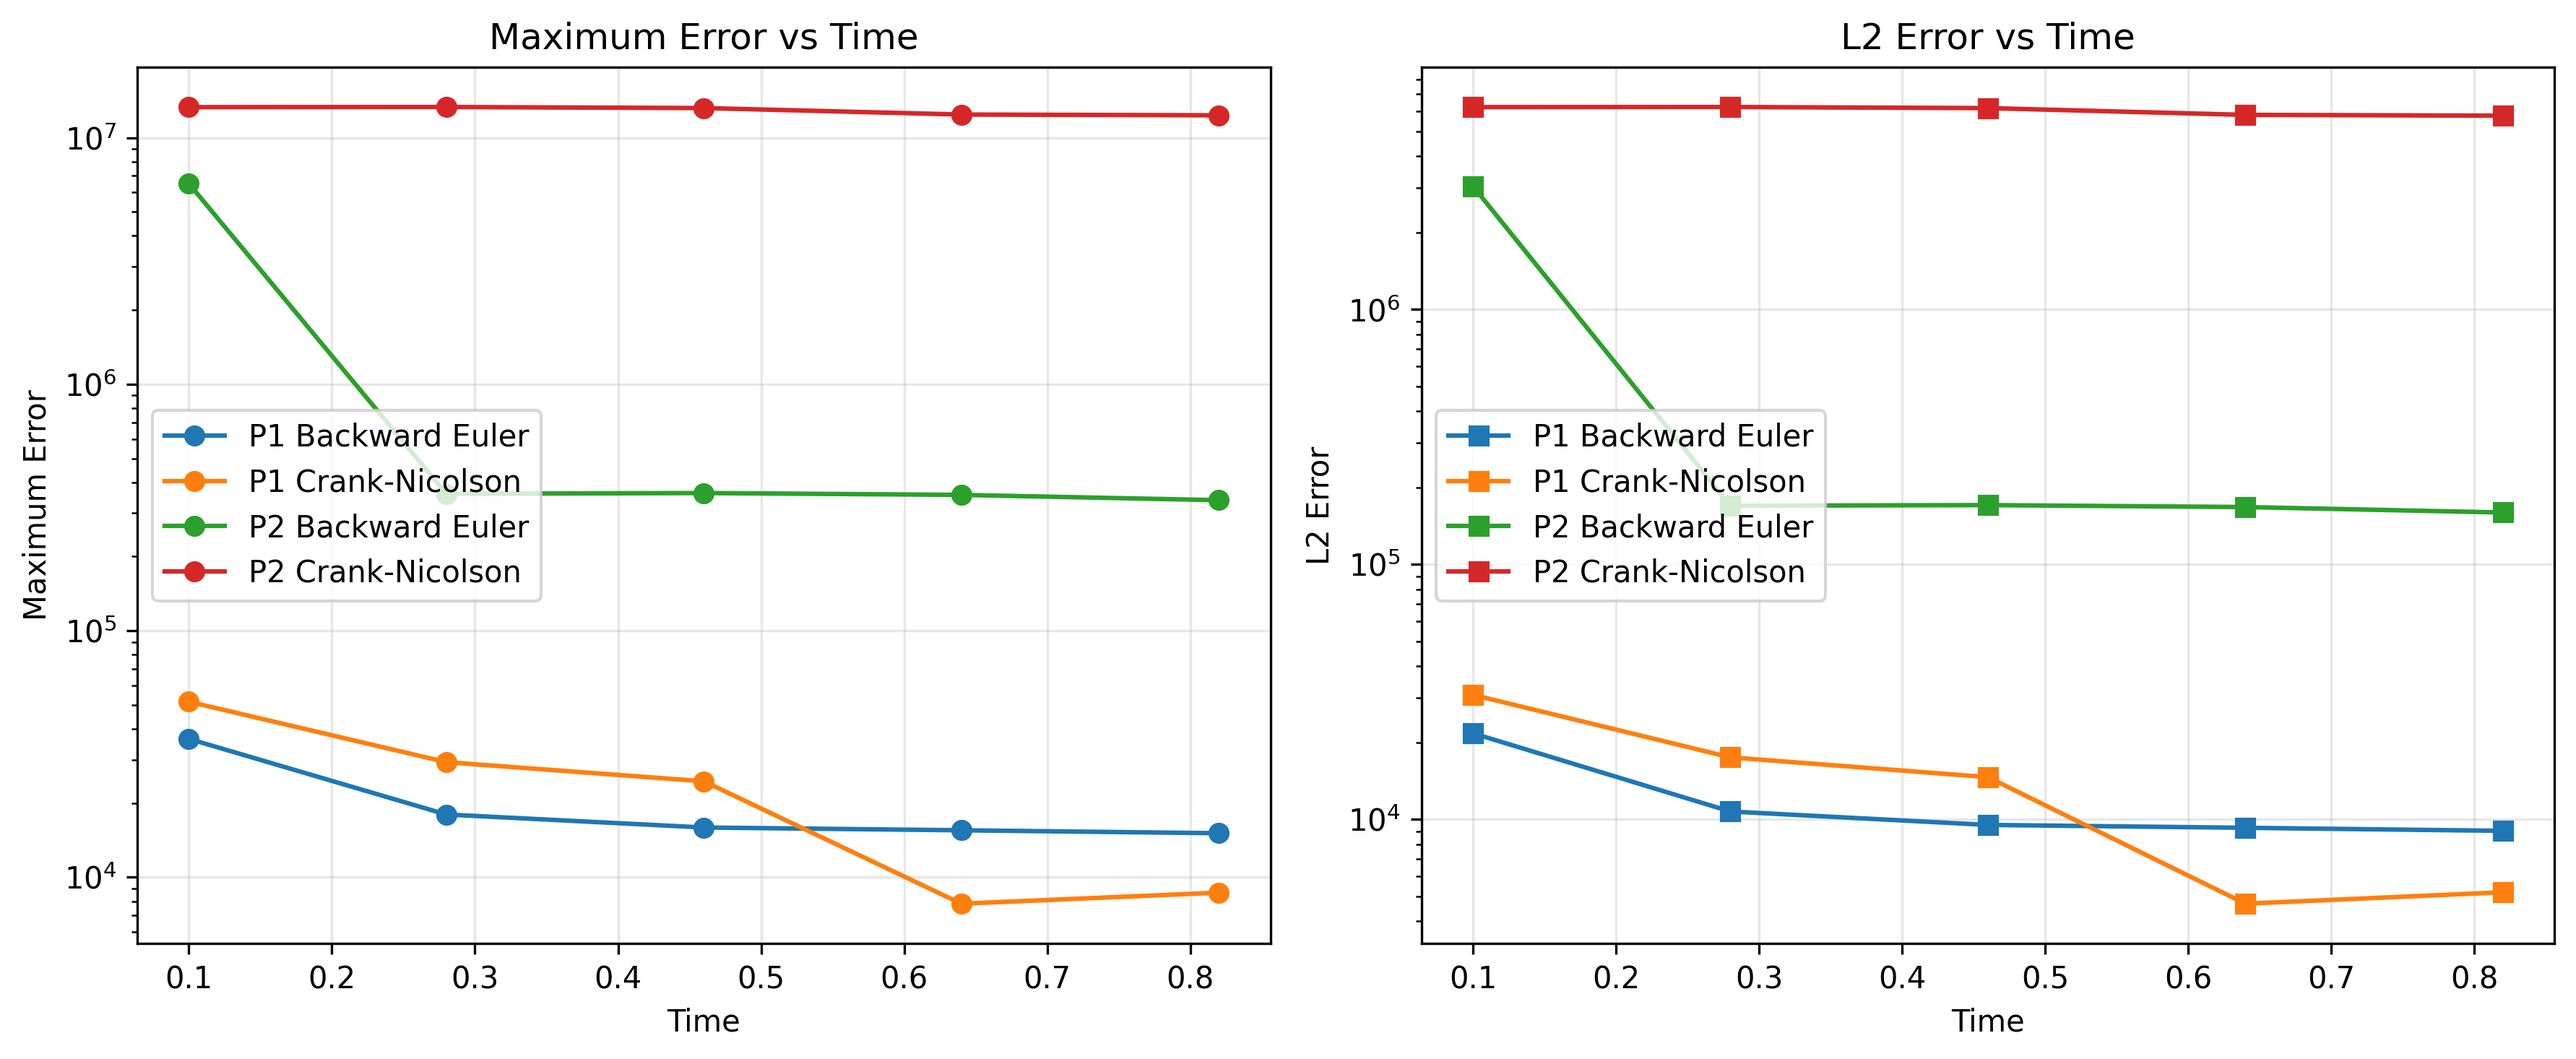
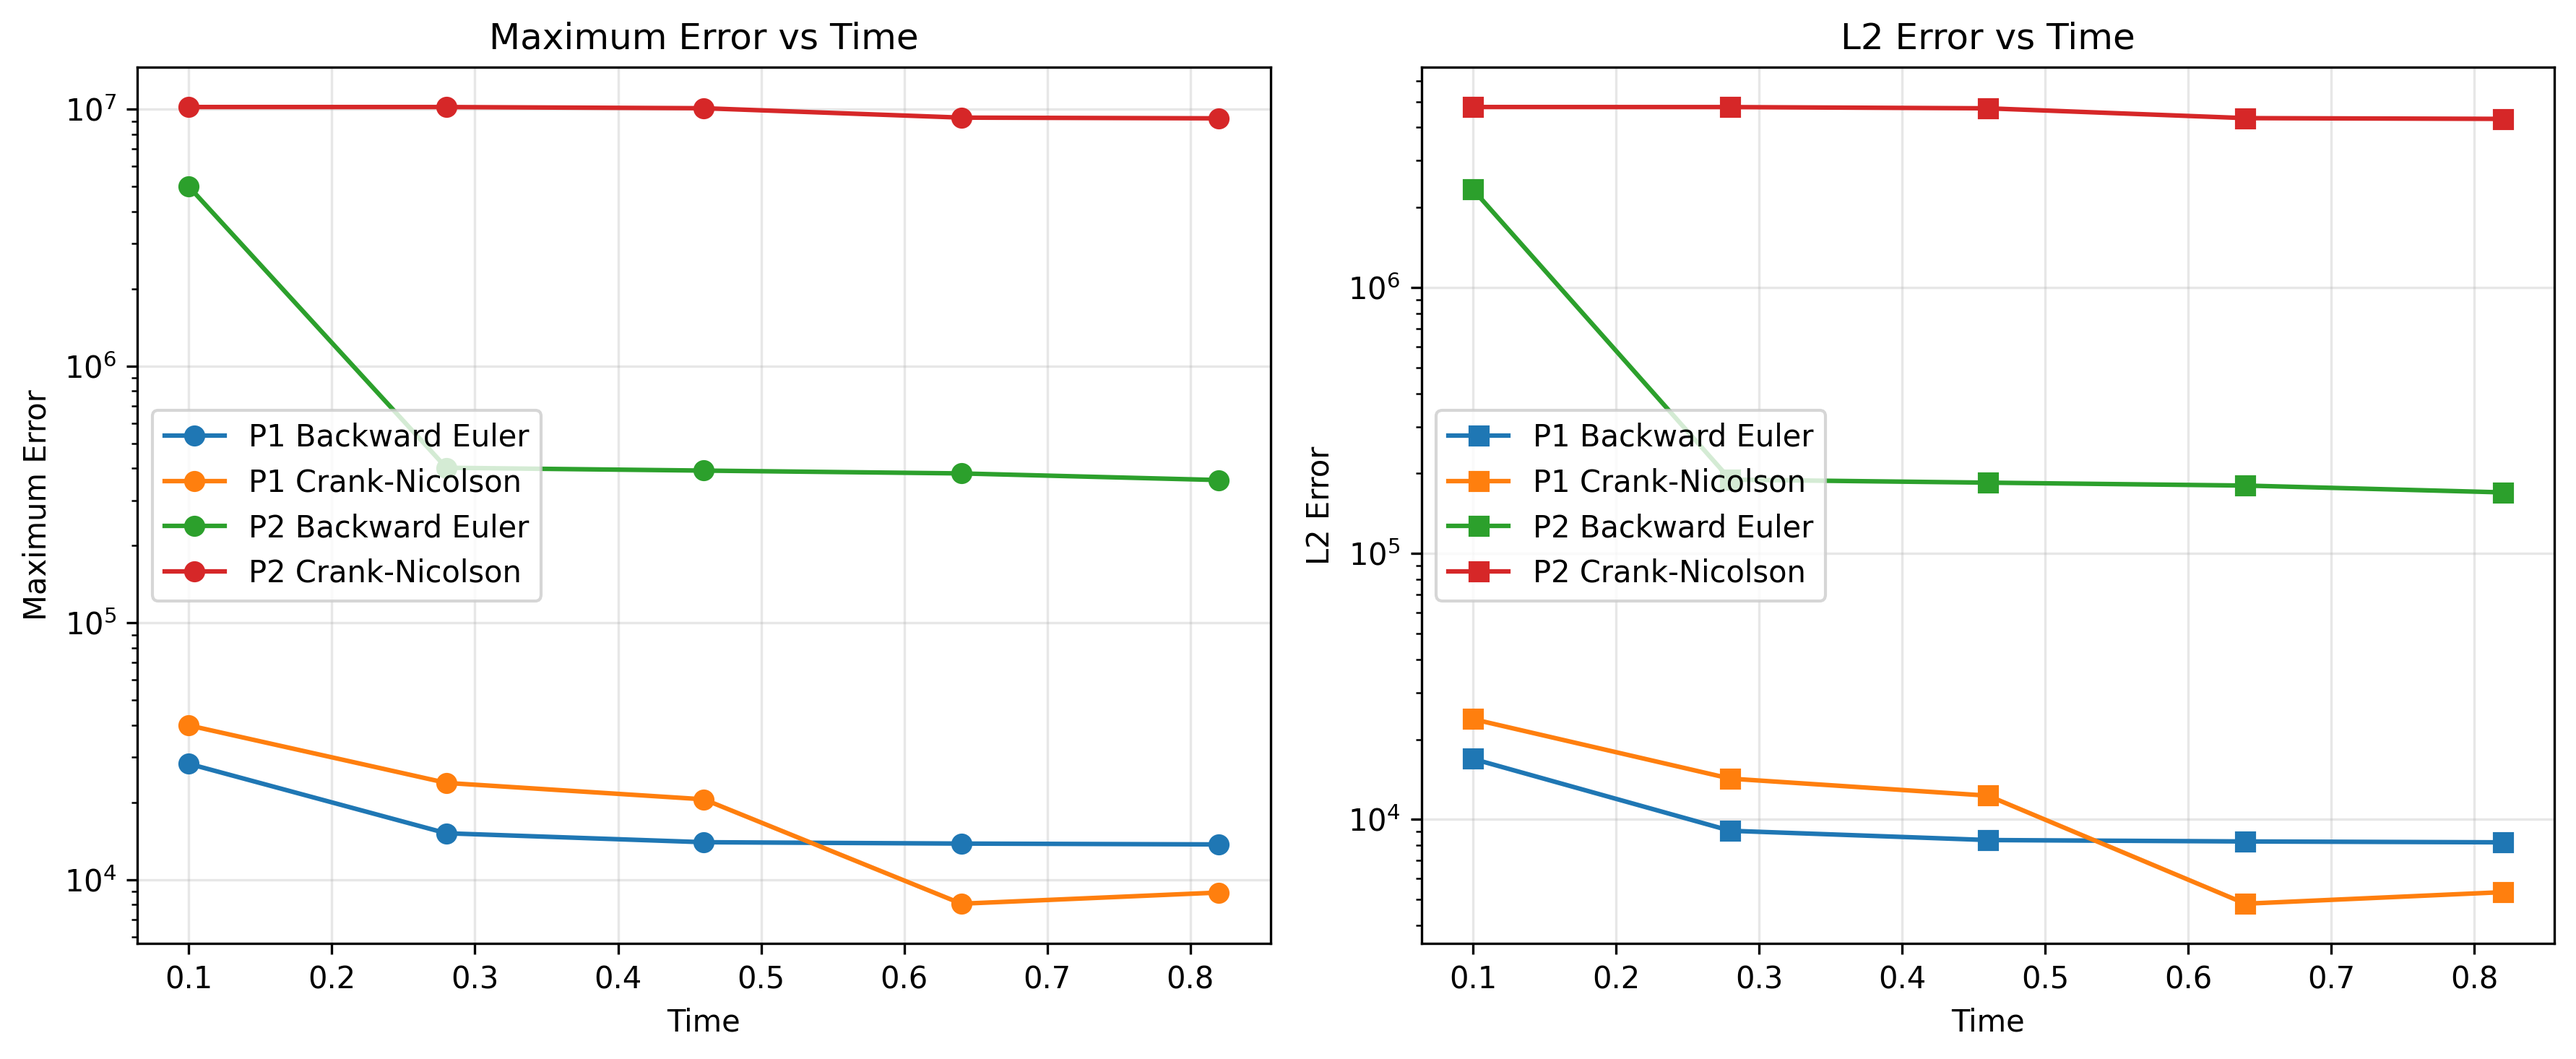
Updated text and fixed bug in constructed equation

diff --git a/code/black_scholes_pde.py b/code/black_scholes_pde.py
@@ -107,7 +107,7 @@ class BlackScholesConstructed:
         """
         Initial condition for the Black-Scholes PDE at time t=0.
         """
-        return np.maximum(self.K - S, 0)
+        return self.K * np.exp(-self.r * S)
 
     def true_sol(self, S, t):
         '''
